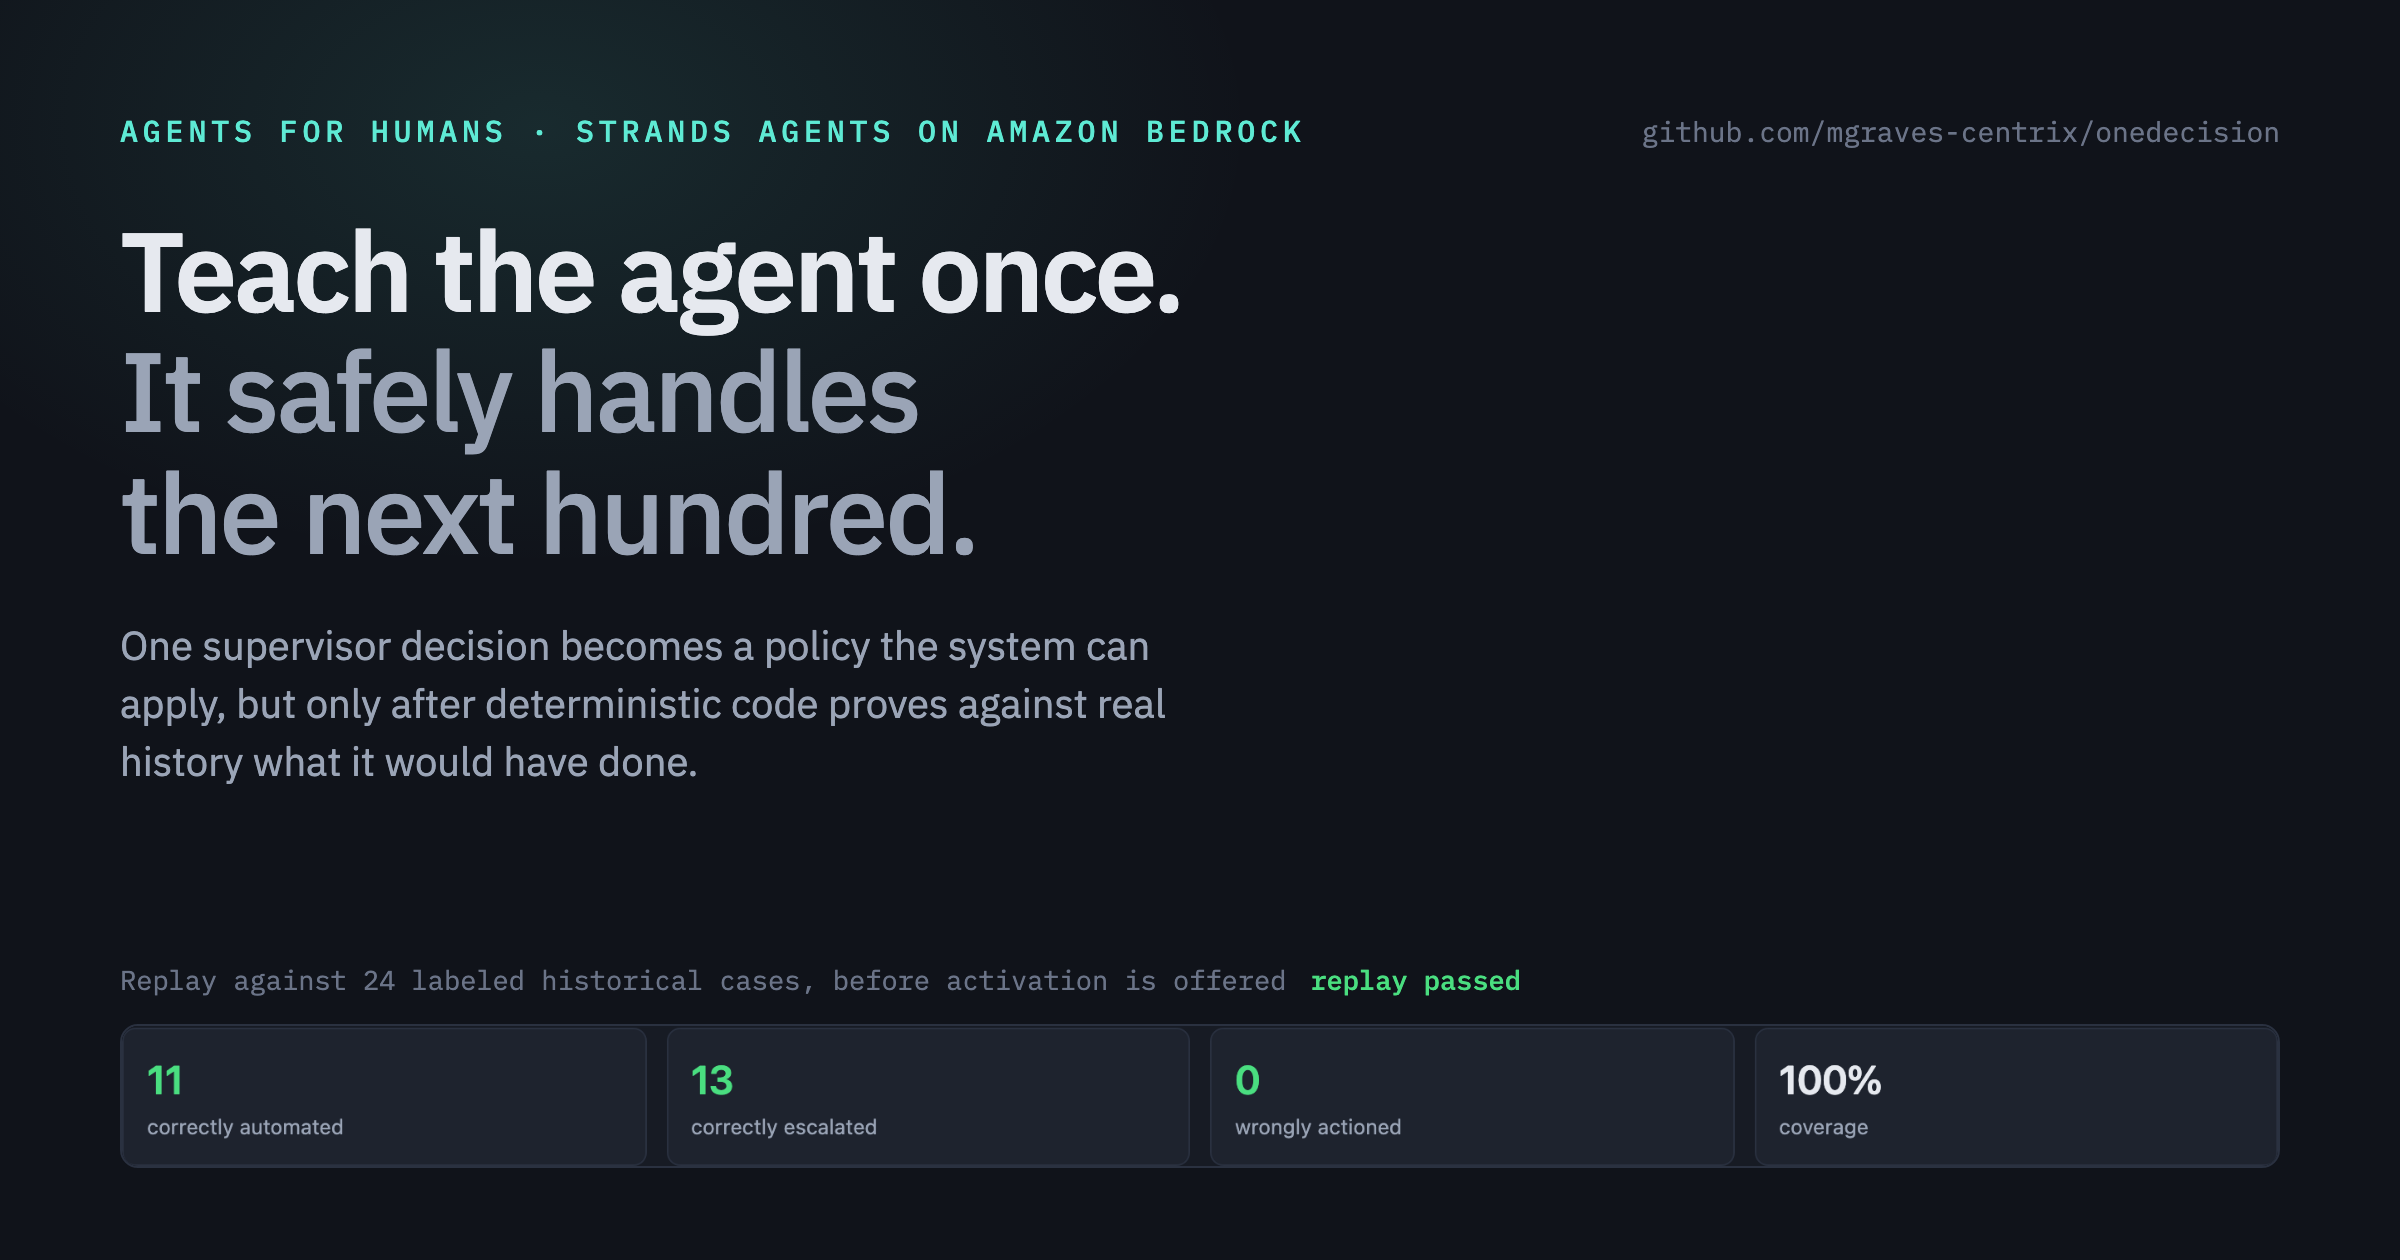
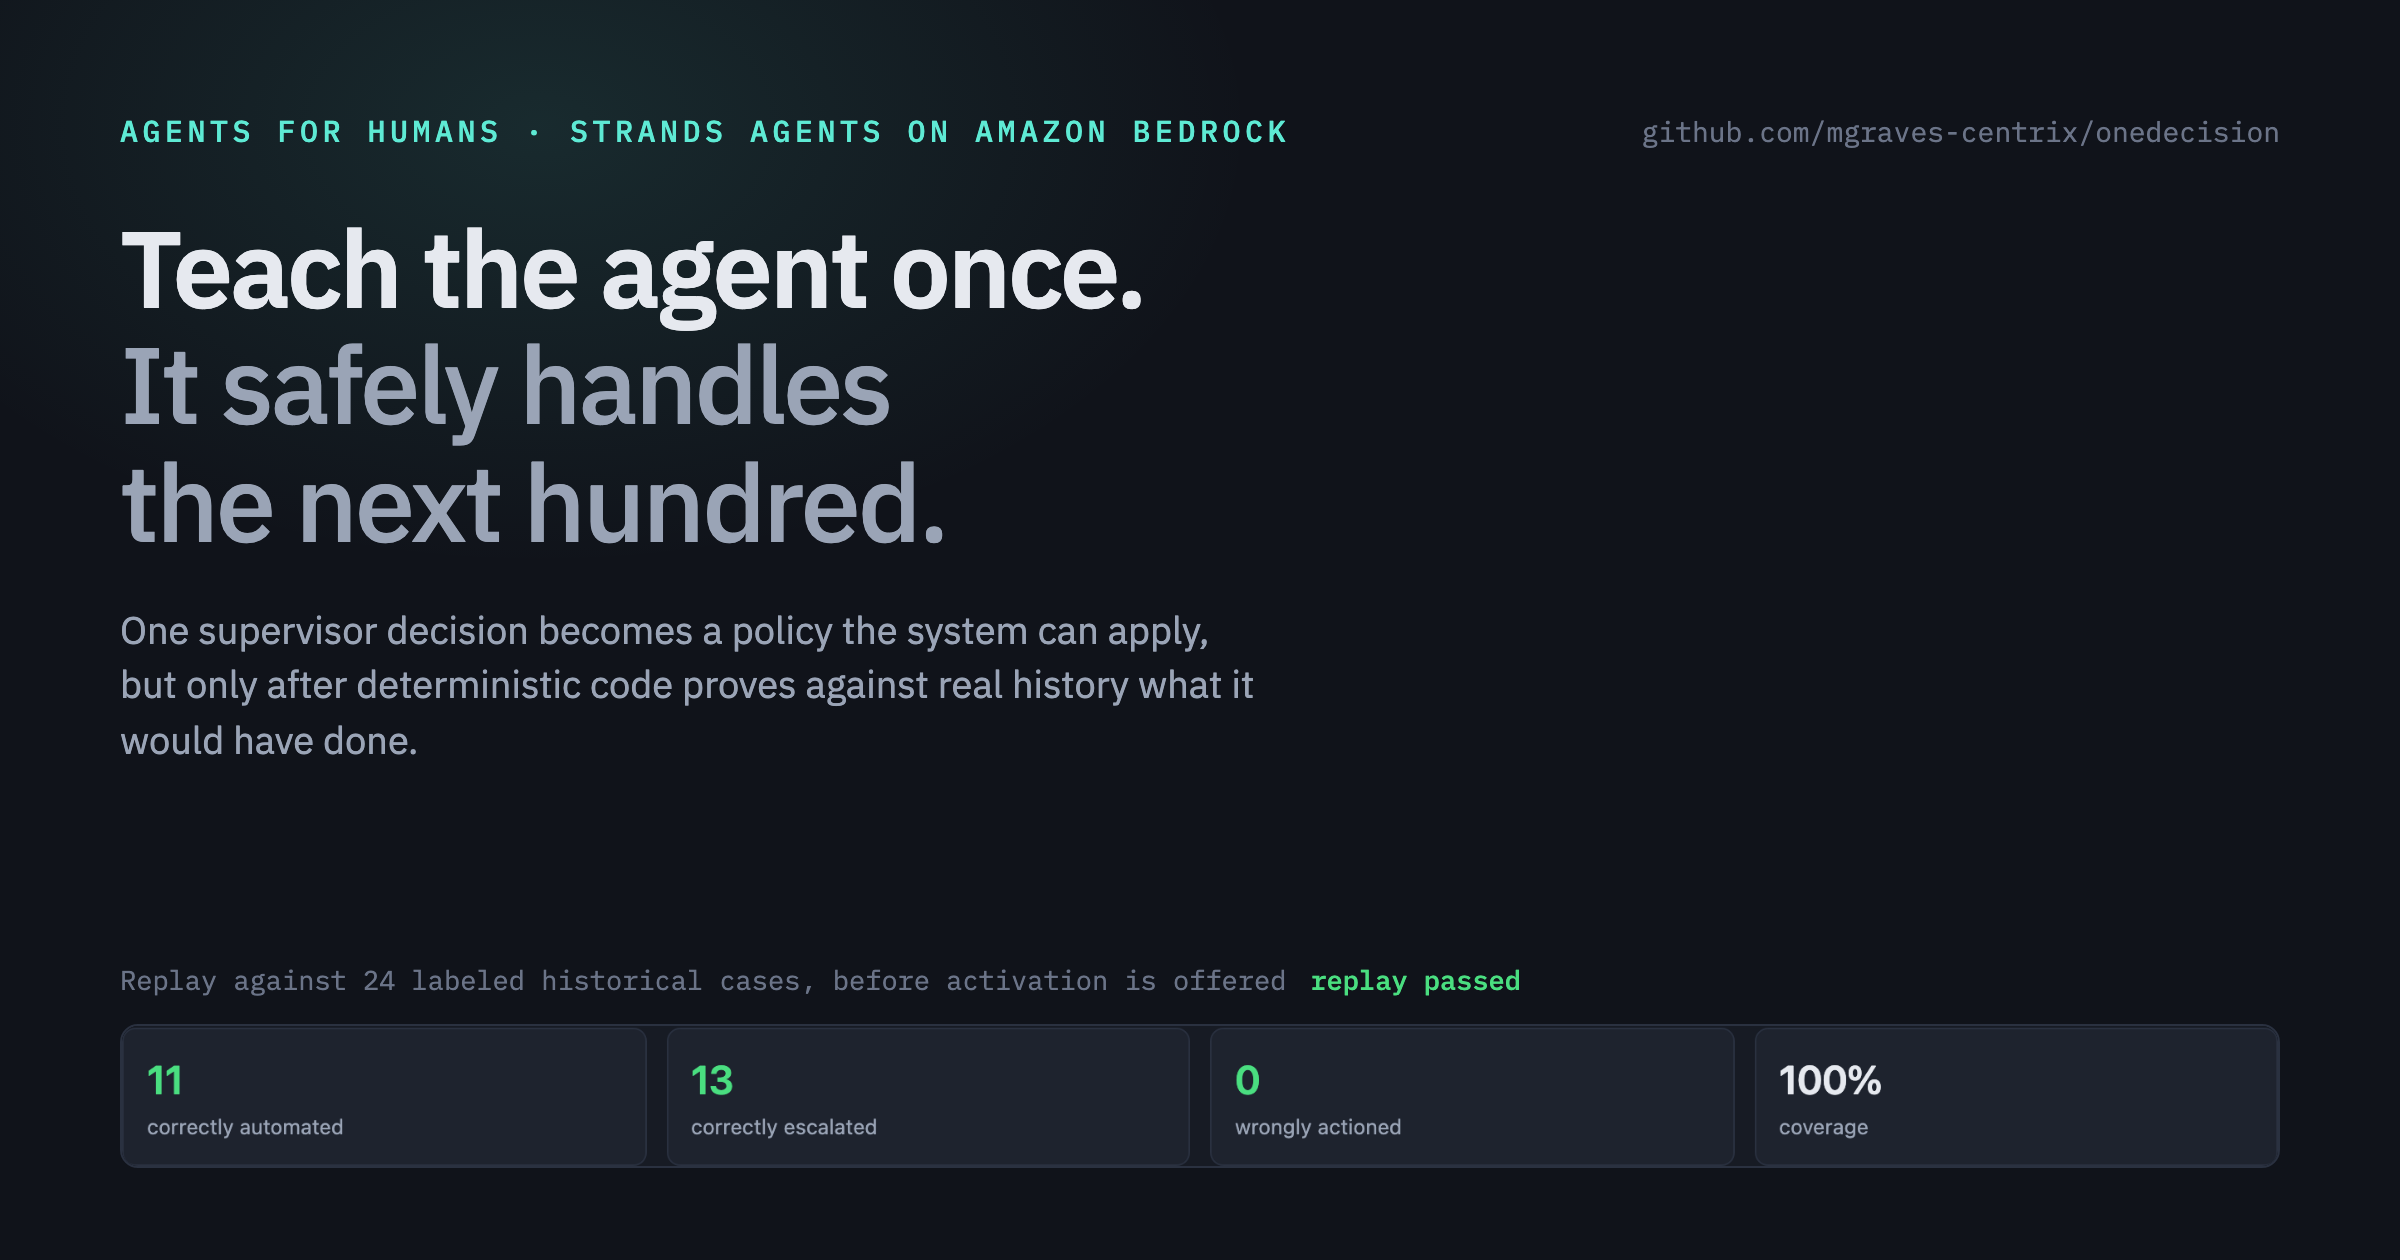
Give each post its own cover
One cover per post instead of one for the series, each carrying that post's own
evidence: the audit log that showed where 115,000 tokens went, the runtime log
line proving a schedule fired with nobody watching, and the guardrail refusing a
case whose serial did not match. The series cover keeps the replay grid.

build_covers.py renders all four from covers.json, so a wording change is a data
edit rather than four hand-built images.

diff --git a/tools/blog/build_covers.py b/tools/blog/build_covers.py
@@ -1,0 +1,126 @@
+"""Render one 1200x630 cover per Builder post.
+
+Usage: python tools/blog/build_covers.py
+
+The evidence on each cover is the product's own: `tokens.png`, `replay.png` and
+`refusal.png` are screenshots taken from the app running against a finished
+take's database, and the terminal block is real captured CLI and runtime output.
+Nothing on a cover is a number someone typed to look good. See README.md for how
+to re-shoot the screenshots after a new take.
+"""
+
+from __future__ import annotations
+
+import html
+import json
+import pathlib
+import sys
+
+from playwright.sync_api import sync_playwright
+
+HERE = pathlib.Path(__file__).resolve().parent
+OUT = HERE.parent.parent / "docs" / "blog"
+W, H = 1200, 630
+
+CSS = """
+:root {
+  --bg: #10131a; --panel: #171b24; --line: #2a3140;
+  --ink: #e6e9ef; --dim: #9aa4b6; --faint: #6b7488;
+  --accent: #5eead4; --good: #4ade80;
+  --mono: "IBM Plex Mono", ui-monospace, Menlo, monospace;
+  --sans: "IBM Plex Sans", ui-sans-serif, system-ui, sans-serif;
+}
+* { box-sizing: border-box; margin: 0; }
+html, body { width: 1200px; height: 630px; }
+body { background: var(--bg); color: var(--ink); font-family: var(--sans);
+       display: flex; flex-direction: column; padding: 56px 60px 0;
+       position: relative; overflow: hidden; }
+.wash { position: absolute; inset: -40% 35% 40% -20%; pointer-events: none;
+        background: radial-gradient(closest-side, rgba(94,234,212,.11), transparent 70%); }
+.topline { display: flex; align-items: baseline; justify-content: space-between;
+           gap: 24px; position: relative; }
+.eyebrow { font-family: var(--mono); font-size: 15px; font-weight: 500;
+           letter-spacing: .15em; text-transform: uppercase; color: var(--accent); }
+.repo { font-family: var(--mono); font-size: 14px; color: var(--faint); }
+
+.body { display: flex; gap: 52px; align-items: flex-start; position: relative;
+        margin-bottom: 30px; }   /* a floor, so a tall hero never crowds the copy */
+.copy { min-width: 0; }
+h1 { margin-top: 30px; font-size: 54px; font-weight: 600; line-height: 1.08;
+     letter-spacing: -.028em; max-width: 22ch; }
+h1 .quiet { color: var(--dim); font-weight: 500; }
+.sub { margin-top: 22px; max-width: 50ch; font-size: 19px; line-height: 1.45; color: var(--dim); }
+
+
+.proof { margin-top: auto; padding-bottom: 46px; position: relative; }
+.proof-label { display: flex; align-items: baseline; gap: 12px; margin-bottom: 13px;
+               font-family: var(--mono); font-size: 13.5px; color: var(--faint); }
+.proof-label b { color: var(--good); font-weight: 500; }
+.proof img { display: block; width: 100%; border: 1px solid var(--line); border-radius: 9px; }
+
+pre { background: var(--panel); border: 1px solid var(--line); border-radius: 9px;
+      padding: 18px 22px; font-family: var(--mono); font-size: 14px; line-height: 1.62;
+      color: var(--dim); overflow: hidden; white-space: pre; }
+pre .cmd { color: var(--ink); }
+"""
+
+
+def page(spec: dict) -> str:
+    layout = spec["layout"]
+    caption = (
+        f'<div class="proof-label"><span>{html.escape(spec["caption"])}</span>'
+        f'<b>{html.escape(spec["flag"])}</b></div>'
+    )
+
+    if layout == "terminal":
+        lines = "\n".join(
+            f'<span class="cmd">{html.escape(l)}</span>' if l.startswith("$") else html.escape(l)
+            for l in spec["terminal"]
+        )
+        proof = f'<div class="proof">{caption}<pre>{lines}</pre></div>'
+        aside = ""
+    else:
+        proof = f'<div class="proof">{caption}<img src="{spec["hero"]}" alt=""></div>'
+        aside = ""
+
+    return f"""<!doctype html><meta charset="utf-8">
+<link rel="preconnect" href="https://fonts.googleapis.com">
+<link rel="preconnect" href="https://fonts.gstatic.com" crossorigin>
+<link rel="stylesheet" href="https://fonts.googleapis.com/css2?family=IBM+Plex+Mono:wght@400;500;600&family=IBM+Plex+Sans:wght@400;500;600;700&display=swap">
+<style>{CSS}</style>
+<div class="wash"></div>
+<div class="topline">
+  <p class="eyebrow">{html.escape(spec["eyebrow"])}</p>
+  <p class="repo">github.com/mgraves-centrix/onedecision</p>
+</div>
+<div class="body">
+  <div class="copy">
+    <h1>{html.escape(spec["title"])}<br><span class="quiet">{spec["title_quiet"]}</span></h1>
+    <p class="sub">{html.escape(spec["sub"])}</p>
+  </div>
+  {aside}
+</div>
+{proof}
+"""
+
+
+def main() -> None:
+    specs = json.loads((HERE / "covers.json").read_text())
+    with sync_playwright() as p:
+        browser = p.chromium.launch()
+        ctx = browser.new_context(viewport={"width": W, "height": H}, device_scale_factor=2)
+        pg = ctx.new_page()
+        for name, spec in specs.items():
+            src = HERE / f"_{name}.html"
+            src.write_text(page(spec))
+            pg.goto(src.as_uri(), wait_until="networkidle")
+            pg.wait_for_timeout(700)          # let the webfonts land
+            out = OUT / (f"cover.png" if name == "series" else f"cover-{name}.png")
+            pg.screenshot(path=str(out))
+            src.unlink()
+            print(f"{out.name:<28} {out.stat().st_size / 1024:5.0f} KB")
+        browser.close()
+
+
+if __name__ == "__main__":
+    main()

diff --git a/tools/blog/README.md b/tools/blog/README.md
@@ -1,17 +1,25 @@
-# Blog cover
+# Blog covers
 
-`cover.html` renders the cover image for the Builder.aws posts at 1200x630. The
-numbers in it are not typed: `replay.png` is a screenshot of the real replay grid,
-taken from the app running against a finished take's database, so the cover shows
-the same evidence a reader would see in the product.
+One 1200x630 cover per Builder post, plus a series cover, rendered by
+`build_covers.py` from the spec in `covers.json`.
 
-To rebuild after a take, serve that take's database and re-shoot the element:
+```bash
+.venv/bin/python tools/blog/build_covers.py     # writes docs/blog/cover*.png
+```
+
+The evidence on each cover is the product's own. `replay.png` and `refusal.png`
+are screenshots of the running app, and the terminal blocks are real captured CLI
+and runtime output. No figure on a cover was typed to look good, which is the
+point: a cover that claims zero wrong actions should be showing the screen that
+says so.
+
+To re-shoot the screenshots after a new take, serve that take's database:
 
 ```bash
 ONEDECISION_MODEL_PROVIDER=scripted ONEDECISION_DB_PATH=../onedecision-video/take.db \
   .venv/bin/uvicorn app.main:app --host 127.0.0.1 --port 8099
 ```
 
-Screenshot `.replay-grid` on the decision page at `device_scale_factor=2` into
-`replay.png`, then render `cover.html` in a 1200x630 viewport, also at 2x. The
-output is `docs/blog/cover.png`.
+Then screenshot `.replay-grid` on a decision page and `section.card.danger` on the
+escalated case, both at `device_scale_factor=2`, into `replay.png` and
+`refusal.png`.
